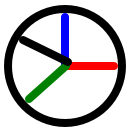
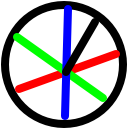
Added axis decorations

diff --git a/src/scenemodifier.cpp b/src/scenemodifier.cpp
@@ -6,6 +6,10 @@
 #include <QtCore/QDebug>
 #include <Qt3DExtras/QPhongAlphaMaterial>
 #include <Qt3DRender/QPointLight>
+#include <Qt3DExtras/QText2DEntity>
+
+#include <Qt3DExtras/QExtrudedTextMesh>
+#include <QFont>
 
 SceneModifier::SceneModifier(Qt3DCore::QEntity *rootEntity)
     : m_rootEntity(rootEntity)
@@ -20,19 +24,19 @@ SceneModifier::SceneModifier(Qt3DCore::QEntity *rootEntity)
     xAxisMesh->setRings(20);
     xAxisMesh->setSlices(20);
     xAxisMesh->setRadius(0.03f);
-    xAxisMesh->setLength(2 * a);
+    xAxisMesh->setLength(2 * a - (a / 32.0));
 
     Qt3DExtras::QCylinderMesh *yAxisMesh = new Qt3DExtras::QCylinderMesh();
     yAxisMesh->setRings(20);
     yAxisMesh->setSlices(20);
     yAxisMesh->setRadius(0.03f);
-    yAxisMesh->setLength(2 * a);
+    yAxisMesh->setLength(2 * a - (a / 32.0));
 
     Qt3DExtras::QCylinderMesh *zAxisMesh = new Qt3DExtras::QCylinderMesh();
     zAxisMesh->setRings(20);
     zAxisMesh->setSlices(20);
     zAxisMesh->setRadius(0.03f);
-    zAxisMesh->setLength(2 * a);
+    zAxisMesh->setLength(2 * a - (a / 32.0));
 
     // Transform
     Qt3DCore::QTransform *sphereTransform = new Qt3DCore::QTransform();
@@ -92,14 +96,14 @@ SceneModifier::SceneModifier(Qt3DCore::QEntity *rootEntity)
     qubitVecMesh->setRings(20);
     qubitVecMesh->setSlices(20);
     qubitVecMesh->setRadius(0.05f);
-    qubitVecMesh->setLength(a);
+    qubitVecMesh->setLength(a * (15.0 / 16.0));
 
     Qt3DExtras::QPhongMaterial *qubitVecMaterial = new Qt3DExtras::QPhongMaterial();
     qubitVecMaterial->setAmbient(QColor(0, 0, 0, 0));
 
     qubitVecTransform = new Qt3DCore::QTransform();
     qubitVecTransform->setRotationX(90);
-    qubitVecTransform->setTranslation(QVector3D(0.0f, 0.0f, a / 2));
+    qubitVecTransform->setTranslation(QVector3D(0.0f, 0.0f, a / 2.0));
 
     m_qubitVecEntity = new Qt3DCore::QEntity(m_rootEntity);
     m_qubitVecEntity->addComponent(qubitVecMesh);
@@ -114,6 +118,117 @@ SceneModifier::SceneModifier(Qt3DCore::QEntity *rootEntity)
 
     rootEntity->addComponent(ambientLight);
 
+    //cone
+
+    Qt3DExtras::QConeMesh *qubitConeMesh = new Qt3DExtras::QConeMesh();
+    qubitConeMesh->setBottomRadius(0.1f);
+    qubitConeMesh->setLength(a / 8);
+
+    qubitConeTransform = new Qt3DCore::QTransform();
+    qubitConeTransform->setRotationX(90);
+    qubitConeTransform->setTranslation(QVector3D(0.0f, 0.0f, a));
+
+    Qt3DExtras::QPhongMaterial *qubitConeMaterial = new Qt3DExtras::QPhongMaterial();
+    qubitConeMaterial->setAmbient(QColor(0, 0, 0, 0));
+
+    m_qubitConeEntity = new Qt3DCore::QEntity(m_rootEntity);
+    m_qubitConeEntity->addComponent(qubitConeMesh);
+    m_qubitConeEntity->addComponent(qubitConeMaterial);
+    m_qubitConeEntity->addComponent(qubitConeTransform);
+
+    //axis cones
+
+        //x
+    xAxisConeTransform = new Qt3DCore::QTransform();
+    xAxisConeTransform->setRotationZ(-90);
+    xAxisConeTransform->setTranslation(QVector3D(a * (31.0 / 32.0), 0.0f, 0.0f));
+
+    auto* xAxisConeMaterial = new Qt3DExtras::QPhongMaterial();
+    xAxisConeMaterial->setAmbient(QColor(255, 0, 0, 0));
+
+    m_xAxisCone = new Qt3DCore::QEntity(m_rootEntity);
+    m_xAxisCone->addComponent(qubitConeMesh);
+    m_xAxisCone->addComponent(xAxisConeMaterial);
+    m_xAxisCone->addComponent(xAxisConeTransform);
+
+        //y
+    yAxisConeTransform = new Qt3DCore::QTransform();
+    //yAxisConeTransform->setRotationZ(0);
+    yAxisConeTransform->setTranslation(QVector3D(0.0f, a * (31.0 / 32.0), 0.0f));
+
+    auto* yAxisConeMaterial = new Qt3DExtras::QPhongMaterial();
+    yAxisConeMaterial->setAmbient(QColor(0, 255, 0, 0));
+
+    m_yAxisCone = new Qt3DCore::QEntity(m_rootEntity);
+    m_yAxisCone->addComponent(qubitConeMesh);
+    m_yAxisCone->addComponent(yAxisConeMaterial);
+    m_yAxisCone->addComponent(yAxisConeTransform);
+
+        //z
+    zAxisConeTransform = new Qt3DCore::QTransform();
+    zAxisConeTransform->setRotationX(90);
+    zAxisConeTransform->setTranslation(QVector3D(0.0f, 0.0f, a * (31.0 / 32.0)));
+
+    auto* zAxisConeMaterial = new Qt3DExtras::QPhongMaterial();
+    zAxisConeMaterial->setAmbient(QColor(0, 0, 255, 0));
+
+    m_zAxisCone = new Qt3DCore::QEntity(m_rootEntity);
+    m_zAxisCone->addComponent(qubitConeMesh);
+    m_zAxisCone->addComponent(zAxisConeMaterial);
+    m_zAxisCone->addComponent(zAxisConeTransform);
+
+    //axis signs
+        //x
+    auto* xtextmesh = new Qt3DExtras::QExtrudedTextMesh();
+    xtextmesh->setText("X");
+    xtextmesh->setFont(QFont("Arial", 24));
+    xtextmesh->setDepth(0.25f);  // Controls the extrusion depth of the text
+
+    auto* xtexttransform = new Qt3DCore::QTransform();
+    xtexttransform->setRotationX(90);
+    xtexttransform->setTranslation(QVector3D(a + 0.2, 0.0f, -0.25f));
+    xtexttransform->setScale(0.5);
+
+    auto* xtext = new Qt3DCore::QEntity(rootEntity);
+    xtext->addComponent(xtextmesh);
+    xtext->addComponent(xAxisMaterial);
+    xtext->addComponent(xtexttransform);
+
+        //y
+    auto* ytextmesh = new Qt3DExtras::QExtrudedTextMesh();
+    ytextmesh->setText("Y");
+    ytextmesh->setFont(QFont("Arial", 24));
+    ytextmesh->setDepth(0.25f);  // Controls the extrusion depth of the text
+
+    auto* ytexttransform = new Qt3DCore::QTransform();
+    ytexttransform->setRotationZ(90);
+    ytexttransform->setRotationY(90);
+    ytexttransform->setTranslation(QVector3D(0.0f, a + 0.2f, -0.25f));
+    ytexttransform->setScale(0.5);
+
+    auto* ytext = new Qt3DCore::QEntity(rootEntity);
+    ytext->addComponent(ytextmesh);
+    ytext->addComponent(yAxisMaterial);
+    ytext->addComponent(ytexttransform);
+
+        //z
+
+    auto* ztextmesh = new Qt3DExtras::QExtrudedTextMesh();
+    ztextmesh->setText("Z");
+    ztextmesh->setFont(QFont("Arial", 24));
+    ztextmesh->setDepth(0.25f);  // Controls the extrusion depth of the text
+
+    auto* ztexttransform = new Qt3DCore::QTransform();
+    ztexttransform->setRotationZ(90);
+    ztexttransform->setRotationY(90);
+    ztexttransform->setRotationX(-90);
+    ztexttransform->setTranslation(QVector3D(0.2f, -0.1f, a + 0.2f));
+    ztexttransform->setScale(0.5);
+
+    auto* ztext = new Qt3DCore::QEntity(rootEntity);
+    ztext->addComponent(ztextmesh);
+    ztext->addComponent(zAxisMaterial);
+    ztext->addComponent(ztexttransform);
 }
 
 SceneModifier::~SceneModifier()

diff --git a/src/quantumbackend.cpp b/src/quantumbackend.cpp
@@ -1,5 +1,4 @@
 #include "quantumbackend.h"
-//#include "scenemodifier.h"
 #include <QLabel>
 
 QuantumGate::QuantumGate(std::complex<double> _00_, std::complex<double> _01_,
@@ -62,15 +61,17 @@ double calculate_rotate_around_z(QuantumState qs){
 
 
     // Convert to Cartesian coordinates
-    double z = std::cos(theta);
+    //double z = std::cos(theta);
 
     return deg_to_rad(phi);
 }
 
 void rotate_amplitude(SceneModifier *modifier, int x, int y, int z){
 
+    //cylinder
+
     QMatrix4x4 translate;
-    translate.translate(0.0f, 2.0f, 0.0f);
+    translate.translate(0.0f, (4.0 * (15.0 / 16.0)) / 2.0, 0.0f);
 
     auto matX = modifier->qubitVecTransform->rotateAround(
         QVector3D(0,0,0), x, QVector3D(1,0,0));
@@ -90,6 +91,30 @@ void rotate_amplitude(SceneModifier *modifier, int x, int y, int z){
     auto matXYZ = initializerZ*(initializer*(matZ*(matY * (matX * translate))));
 
     modifier->qubitVecTransform->setMatrix(matXYZ);
+
+    //cone
+
+    QMatrix4x4 translate_cone;
+    translate_cone.translate(0.0f, (31.0 / 32.0) * 4.0f, 0.0f);
+
+    auto matX_cone = modifier->qubitVecTransform->rotateAround(
+        QVector3D(0,0,0), x, QVector3D(1,0,0));
+
+    auto matY_cone = modifier->qubitVecTransform->rotateAround(
+        QVector3D(0,0,0), y, QVector3D(0,1,0));
+
+    auto matZ_cone = modifier->qubitVecTransform->rotateAround(
+        QVector3D(0,0,0), z, QVector3D(0,0,1));
+
+    auto initializer_cone = modifier->qubitVecTransform->rotateAround(
+        QVector3D(0,0,0), 90, QVector3D(1,0,0));
+
+    auto initializerZ_cone = modifier->qubitVecTransform->rotateAround(
+        QVector3D(0,0,0), 90, QVector3D(0,0,1));
+
+    auto matXYZ_cone = initializerZ_cone*(initializer_cone*(matZ_cone*(matY_cone * (matX_cone * translate_cone))));
+
+    modifier->qubitConeTransform->setMatrix(matXYZ_cone);
 }
 
 void refresh_state_sign(QLabel* label, const QuantumState* qs, double phi, double theta){

diff --git a/src/scenemodifier.h b/src/scenemodifier.h
@@ -31,10 +31,21 @@ public:
     Qt3DCore::QTransform *qubitVecTransform;
     Qt3DCore::QTransform *qubitConeTransform;
     Qt3DCore::QEntity *m_rootEntity;
+
     Qt3DCore::QEntity *m_sphereEntity;
     Qt3DCore::QEntity *m_xAxisEntity;
     Qt3DCore::QEntity *m_yAxisEntity;
     Qt3DCore::QEntity *m_zAxisEntity;
+
+    Qt3DCore::QEntity *m_xAxisCone;
+    Qt3DCore::QEntity *m_yAxisCone;
+    Qt3DCore::QEntity *m_zAxisCone;
+
+    Qt3DCore::QTransform *xAxisConeTransform;
+    Qt3DCore::QTransform *yAxisConeTransform;
+    Qt3DCore::QTransform *zAxisConeTransform;
+
+
     Qt3DCore::QEntity *m_qubitVecEntity;
     Qt3DCore::QEntity *m_qubitConeEntity;
 };

diff --git a/src/main.cpp b/src/main.cpp
@@ -89,7 +89,7 @@ int main(int argc, char **argv)
     cameraEntity->setViewCenter(QVector3D(0, 0, 0));
 
     // For camera controls
-    Qt3DExtras::QOrbitCameraController *camController = new Qt3DExtras::QOrbitCameraController(rootEntity);
+    auto *camController = new Qt3DExtras::QOrbitCameraController(rootEntity);
 
     camController->setCamera(cameraEntity);
     camController->setUpVector(upVec);
